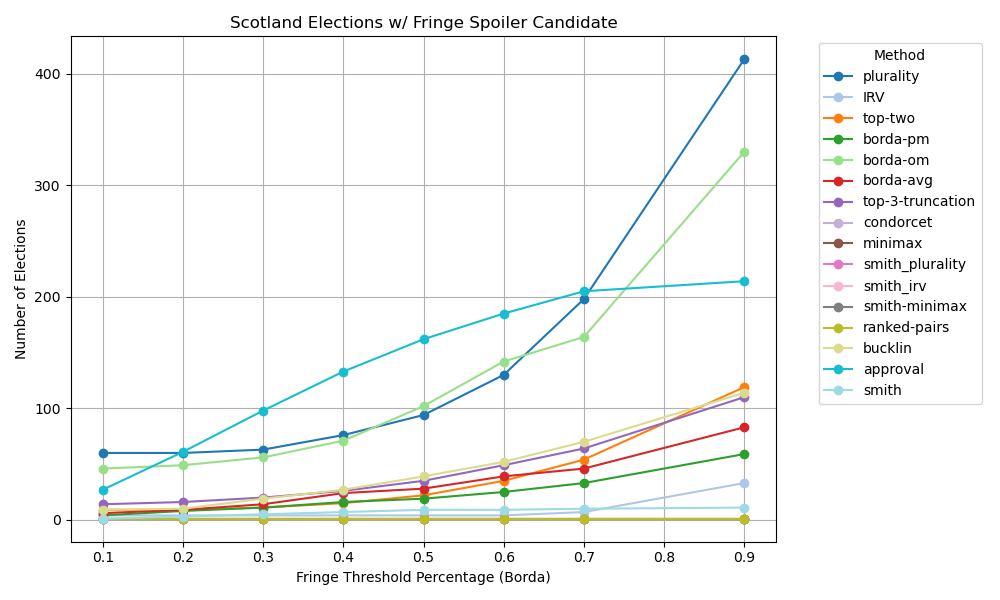
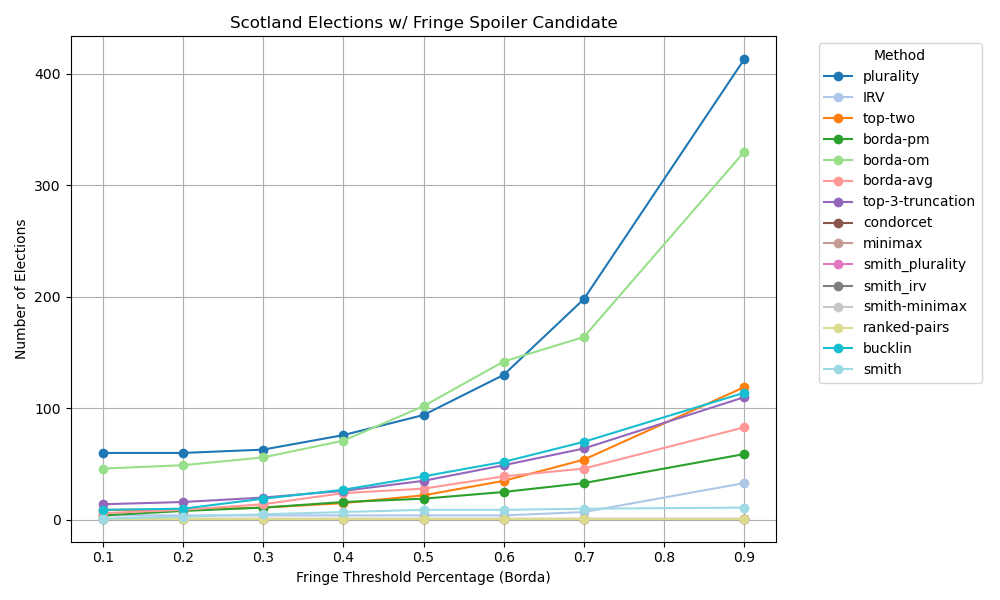
new graphs

diff --git a/analysis/spoiler/spoiler_vs_fringe/generate_graph.py b/analysis/spoiler/spoiler_vs_fringe/generate_graph.py
@@ -2,33 +2,37 @@ import matplotlib.pyplot as plt
 import json 
 import matplotlib.cm as cm
 
-with open(f'./new_results/america_svf_metadata.json') as file:
-    data = json.load(file)
+def run(country, given_method="Mention"):
+    with open(f'./new_results/{country}_svf_metadata.json') as file:
+        data = json.load(file)
 
-data = data["fringe_count"]
+    data = data["fringe_count"]
 
-x_values = sorted([float(key.split("_")[-1]) for key in data.keys()])
+    x_values = sorted([float(key.split("_")[-1]) for key in data.keys()])
 
-methods = ['plurality','IRV','top-two','borda-pm','borda-om','borda-avg','top-3-truncation','condorcet','minimax','smith_plurality','smith_irv','smith-minimax','ranked-pairs','bucklin','approval','smith']
+    methods = ['plurality','IRV','top-two','borda-pm','borda-om','borda-avg','top-3-truncation','condorcet','minimax','smith_plurality','smith_irv','smith-minimax','ranked-pairs','bucklin','smith']
 
-y_values = {method: [] for method in methods}
+    y_values = {method: [] for method in methods}
 
-for key in sorted(data.keys(), key=lambda k: float(k.split("_")[-1])):
-    for method in methods:
-        y_values[method].append(data[key].get(method, 0)) 
+    for key in sorted(data.keys(), key=lambda k: float(k.split("_")[-1])):
+        for method in methods:
+            y_values[method].append(data[key].get(method, 0)) 
 
-cmap = cm.get_cmap("tab20", len(methods))
-method_colors = {method: cmap(i) for i, method in enumerate(methods)}
+    cmap = cm.get_cmap("tab20", len(methods))
+    method_colors = {method: cmap(i) for i, method in enumerate(methods)}
 
-plt.figure(figsize=(10, 6))
-for method, y_vals in y_values.items():
-    plt.plot(x_values, y_vals, marker="o", linestyle="-", label=method, color=method_colors[method])
+    plt.figure(figsize=(10, 6))
+    for method, y_vals in y_values.items():
+        plt.plot(x_values, y_vals, marker="o", linestyle="-", label=method, color=method_colors[method])
 
-plt.xlabel("Fringe Threshold Percentage (Borda)")
-plt.ylabel("Number of Elections")
-plt.title("America Elections w/ Fringe Spoiler Candidate")
-plt.legend(title="Method", bbox_to_anchor=(1.05, 1), loc='upper left')  # Move legend outside
-plt.grid(True)
-plt.tight_layout()
+    plt.xlabel(f"Fringe Threshold Percentage ({given_method})")
+    plt.ylabel("Number of Elections")
+    plt.title(f"{country.capitalize()} Elections w/ Fringe Spoiler Candidate")
+    plt.legend(title="Method", bbox_to_anchor=(1.05, 1), loc='upper left')  # Move legend outside
+    plt.grid(True)
+    plt.tight_layout()
+    plt.savefig(f'{country}.png')
 
-plt.show()
+run('america')
+run('australia')
+run('scotland')

diff --git a/analysis/spoiler/spoiler_vs_fringe/spoiler_vs_fringe_metadata.py b/analysis/spoiler/spoiler_vs_fringe/spoiler_vs_fringe_metadata.py
@@ -28,7 +28,7 @@ def get_metadata_for_country(country):
                            
                     total_counts[method].add(file)
 
-    print(len(write))
+    # print(len(write))
     # print(fringe_count)
     # print(fringe_count.items())
     # # print(total_counts)
@@ -48,7 +48,7 @@ def get_metadata_for_country(country):
     print(f"Grouped changes with metadata have been exported to {output_file}")
 
 if __name__ == '__main__':
-    # get_metadata_for_country('america_no_write_in')
+    get_metadata_for_country('australia')
     get_metadata_for_country('america')
-    # get_metadata_for_country('scotland')
+    get_metadata_for_country('scotland')
     # get_metadata_for_country('civs')
